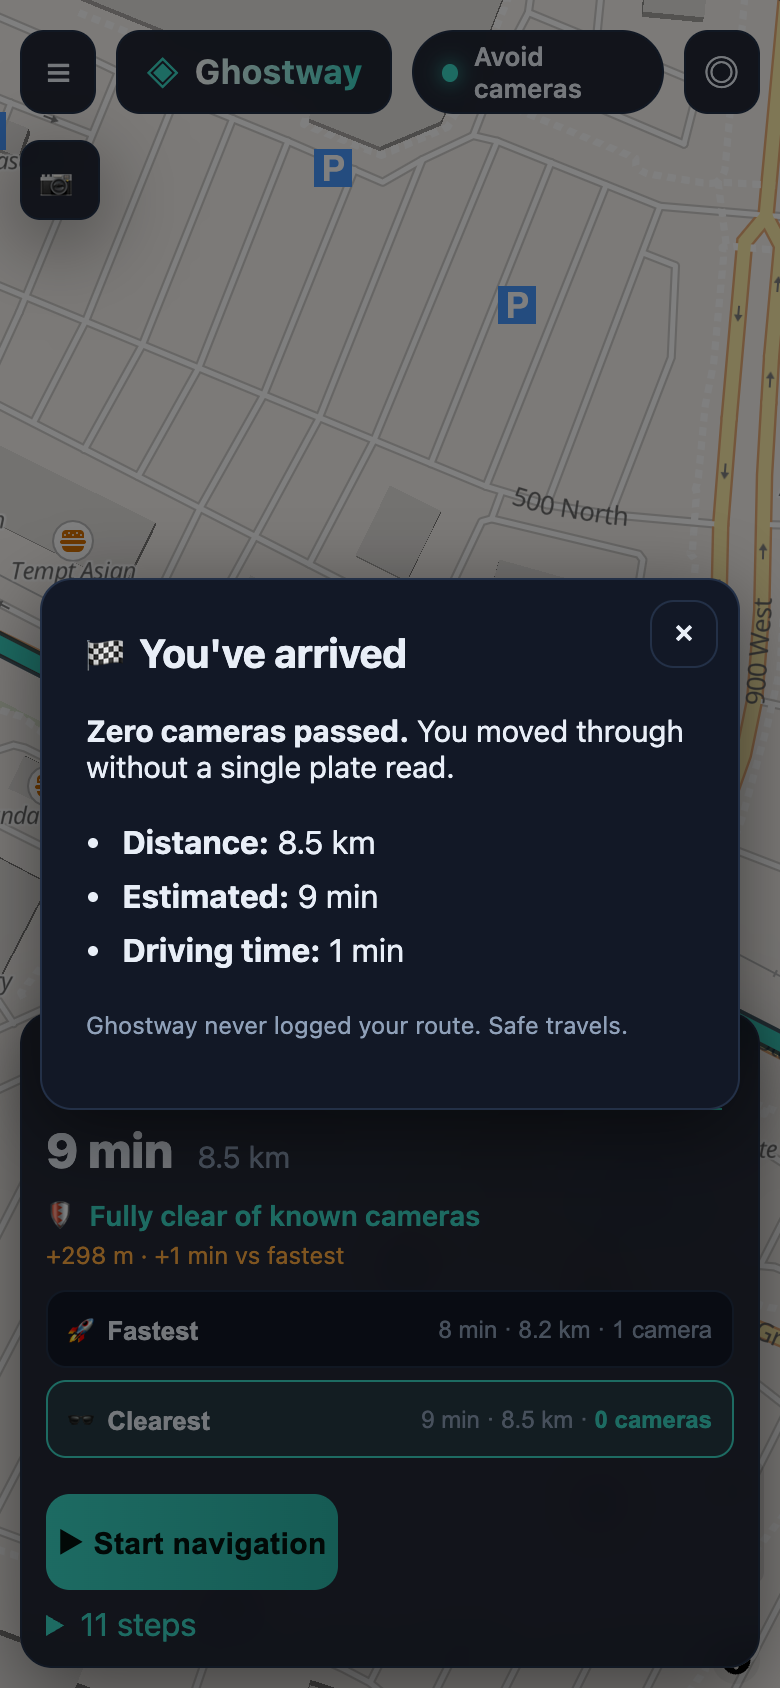
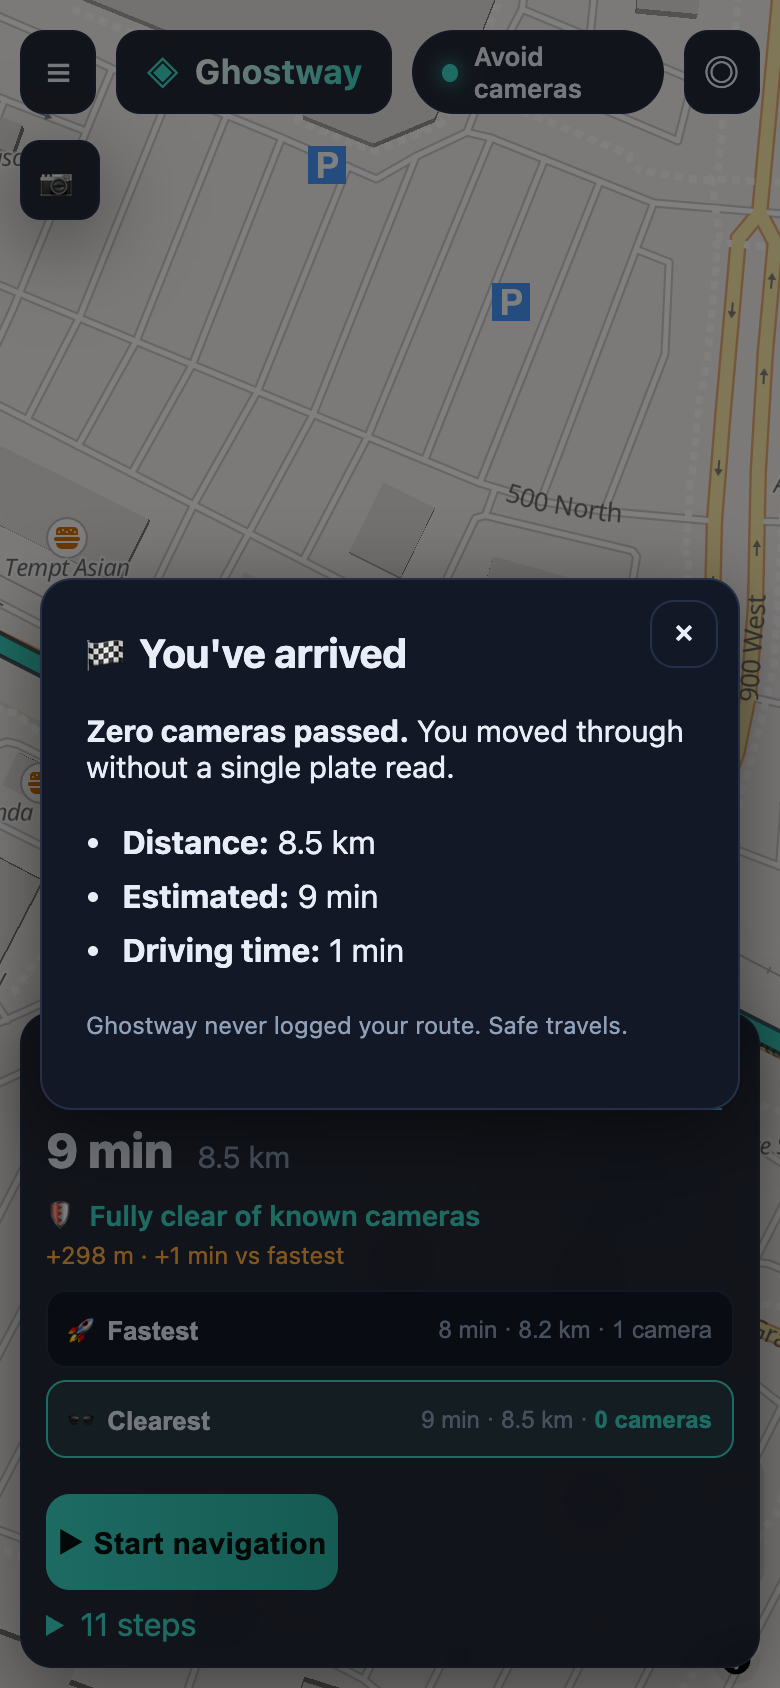
Iteration 5: camera-ahead voice warning + over-speed alert (red pulsing chip, rate-limited voice); pulled stale WZDx pipeline after discovering feed dead since 2023-03, kept fetch script for revival

diff --git a/src/main.js b/src/main.js
@@ -457,7 +457,31 @@ function updateSpeed(pos) {
   if (chip) {
     chip.textContent = fmtSpeed(app._navSpeed);
     chip.hidden = app._navSpeed == null;
+    checkOverSpeed();
   }
+}
+
+// Over-speed alert (Workstream C): compare smoothed GPS speed against the
+// current step's posted limit. Visual: red chip. Voice: at most once/minute.
+function checkOverSpeed() {
+  const chip = $('#speedChip');
+  if (!chip || !app.state.navigating || app._navSpeed == null) return;
+  const steps = app._navSteps || [];
+  const step = steps[Math.min(app.state.stepIndex, steps.length - 1)];
+  const limitKmh = step && step.speedLimit;
+  if (!limitKmh) {
+    chip.classList.remove('over');
+    return;
+  }
+  const speedKmh = app._navSpeed * 3.6;
+  const over = speedKmh > limitKmh + 8; // tolerance ~5 mph
+  chip.classList.toggle('over', over);
+  const now = Date.now();
+  if (over && (!app._lastOverVoice || now - app._lastOverVoice > 60000)) {
+    app._lastOverVoice = now;
+    speak(`You're over the ${Math.round(limitKmh * 0.621371 / 5) * 5} mile per hour limit.`);
+  }
+  if (!over) app._lastOverVoice = 0;
 }
 
 function stopNav(arrived = false) {
@@ -596,6 +620,19 @@ function advanceStep(userC) {
         app._voiceAnnounced[idx + '_near'] = 1;
         speak(phraseManeuver(Math.max(30, distToManeuver), s.instruction, s.name));
       }
+    }
+    // Camera-ahead warning: find the nearest later step that passes cameras;
+    // if we're within ~250m of entering it, alert once.
+    for (let k = idx + 1; k < steps.length; k++) {
+      if (!steps[k].cameras) continue;
+      if (app._voiceAnnounced['cam' + k]) continue; // already warned for this one
+      const distToCam = steps[k].startS - traveled;
+      if (distToCam > 0 && distToCam <= 250) {
+        app._voiceAnnounced['cam' + k] = 1;
+        speak('Camera ahead. You will pass it in about 200 meters.');
+        haptic();
+      }
+      break; // only ever consider the nearest camera step
     }
   }
 }

diff --git a/src/styles.css b/src/styles.css
@@ -823,3 +823,15 @@ details summary {
   box-shadow: var(--shadow);
   backdrop-filter: blur(8px);
 }
+
+/* Over-speed: the speed chip turns red */
+.speed-chip.over {
+  color: #fff;
+  background: #d92645;
+  border-color: #ff5570;
+  animation: over-pulse 0.9s ease-in-out infinite;
+}
+@keyframes over-pulse {
+  0%, 100% { box-shadow: 0 0 0 0 rgba(217, 38, 69, 0.55); }
+  50% { box-shadow: 0 0 0 7px rgba(217, 38, 69, 0); }
+}

diff --git a/public/sw.js b/public/sw.js
@@ -5,7 +5,7 @@
 // immediately (a cached shell would otherwise stick forever across versions).
 
 // Bump this on every release that changes the shell — it invalidates old caches.
-const VERSION = 'ghostway-v6';
+const VERSION = 'ghostway-v7';
 const SHELL = `${VERSION}-shell`;
 const TILES = `${VERSION}-tiles`;
 

diff --git a/docs/GOALS.md b/docs/GOALS.md
@@ -9,7 +9,7 @@ Live: https://deseretsaint.github.io/ghostway/
 | Routing engine (camera-aware) | 7 | Own graph + A* with camera cost (Wasatch Front); national coverage pending |
 | Avoidance modes | 8 | strict/moderate/off toggle, per-option camera counts |
 | Traffic / ETA accuracy | 6 | Live UDOT events → edge speed factors + delay on cards; measured-speed data pending |
-| Nav experience (follow, voice) | 9 | Follow-mode bearing camera, pitch, pan-pause + recenter; voice + banner + arrival |
+| Nav experience (follow, voice) | 9 | Follow camera, voice, banner, arrival, off-route, over-speed + camera-ahead alerts |
 | Visual polish | 8 | Mission icon set (route avoiding camera's gaze), motion, legend, layer toggle; splash next |
 | Camera data layer | 6 | DeFlock tiles + heatmap working |
 
@@ -116,9 +116,32 @@ Shipped:
   suites green (smoke, engine, interact, nav-playback, follow, traffic).
 Quality: Nav experience 8→9 · Visual polish 7→8.
 
-Next (iteration 5):
-- D: splash screen polish + first-run onboarding state design.
-- C: waypoint drag on route preview; speed-limit over-speed alert.
-- B stretch: probe UDOT TMS 5-min speed feeds for a no-token endpoint.
-- A: Valhalla-in-Docker evaluation for national coverage.
+### Iteration 5 — Driving alerts (Workstream C) + traffic research findings (B)
+Shipped:
+- **Camera-ahead warning** (the mission alert): when the chosen route passes a
+  camera, Ghostway says *"Camera ahead. You will pass it in about 200 meters"*
+  exactly once per camera ~250 m before it, with a haptic tap. Works off the
+  per-step camera accounting added to the router in iteration 2.
+- **Over-speed alert**: GPS speed vs the current step's posted limit (OSM
+  maxspeed), ~5 mph tolerance. Speed chip pulses red + voice warning at most
+  once/minute.
+- Verified by `scripts/alert-check.mjs` driving the real PG→Costco route at
+  30 m/s with captured speechSynthesis: both warnings fired in order, zero
+  errors.
+Research finding (Workstream B — measured speeds still blocked):
+- UDOT's WZDx work-zone feed (`udottraffic.utah.gov/wzdx/udot/v40/data`) is
+  key-free but (a) has no CORS headers and (b) is STALE — last updated
+  2023-03-19, all 744 events have past end dates. Built a CI-refresh pipeline
+  (fetch script + workflow) but pulled it: shipping stale data would mislead
+  routing. Kept the engine fetch script for when UDOT revives the feed.
+- 5-min TMS measured speeds remain behind UDOT's registered-data portal
+  (account required — violates the no-key rule). Point-event ArcGIS feed stays
+  the live source.
+Quality: Nav experience 9 (alerts complete the parity set).
+
+Next (iteration 6):
+- D: splash screen + first-run onboarding states.
+- C: waypoint drag on route preview.
+- A: Valhalla-in-Docker evaluation for national coverage (biggest remaining
+  routing-engine lever).
 
